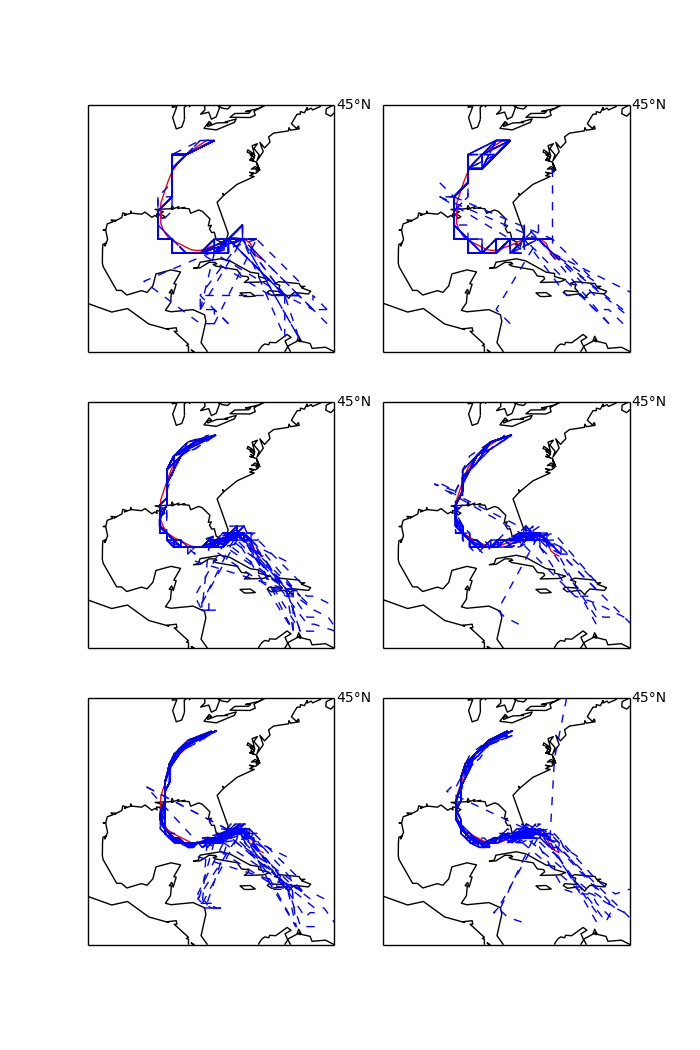
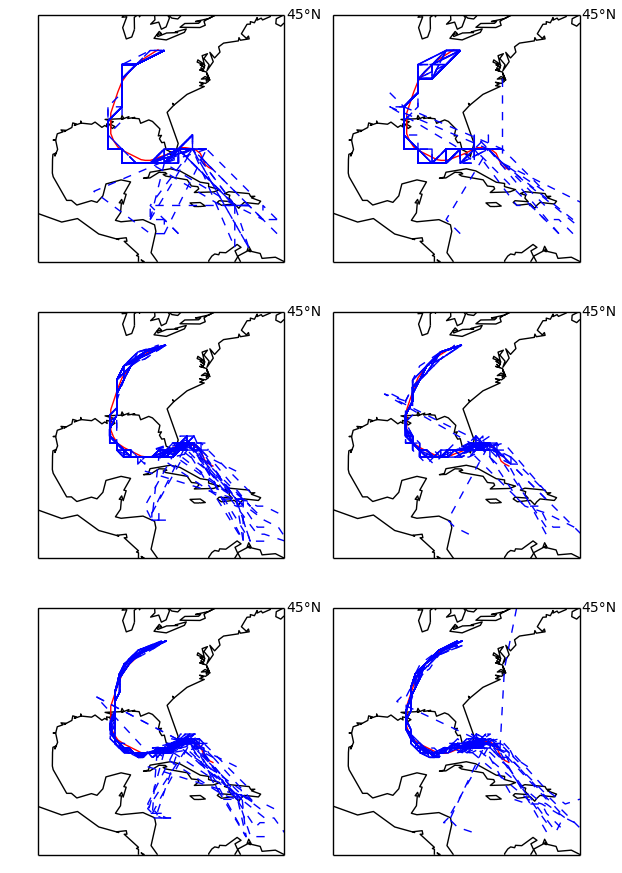
Add a proper section on SGD. Do some TODOCHECKs.

Changed region(s): [[0.0611, 0.0, 1.0, 0.9897]]

diff --git a/dissertation.tex b/dissertation.tex
@@ -11,7 +11,7 @@
 
 % Reduces margins substantially.
 \usepackage{geometry}
-\newgeometry{margin=3.0cm}
+\newgeometry{margin=2.5cm}
 
 % Allows headers and footers.
 \usepackage{fancyhdr}
@@ -42,7 +42,7 @@
 % Abstract
 % Intro
 % Data Sources
-% Development of the Hurricane Detection Algorithm
+% Development of the Hurricane Detection Procedure
 % Conclusion
 % Appendices
 % References
@@ -53,14 +53,14 @@
 % TODOs: 56
 
 % TODO: 5
-% TODOCITE: 2
+% TODOCITE: 1
 % TODOWRITE: 9
 % TODOREF: 3
 % TODOFIGREF: 10
 % TODOFIG: 10
 % TODOTABLEREF: 1
 % TODOTABLE: 1
-% TODOCHECK: 4
+% TODOCHECK: 1
 % TODOIMPROVE: 11
 
 \title{Objective Tracking and Classification of Hurricanes in the 20\ts{th} Century Reanalysis Dataset}
@@ -75,9 +75,9 @@
 \onehalfspacing
 \section*{Abstract}
 
-% Should be >= 400 words.
+% Should be <= 400 words.
 % Not included in word count.
-% 255 words so far.
+% ~262 words so far.
 A procedure for the detection of hurricanes in the 20\ts{th} Century Reanalysis Project dataset is
 developed. Tracks are derived from the dataset by tracking vorticity maxima over time. These derived
 tracks are matched against best tracks taken from the International Best Track Archive for Climate
@@ -99,10 +99,10 @@ metrics.
 
 The developed procedure is run over the course of the 20\ts{th} Century, and a comparison between
 the estimated number of hurricanes and the number as recorded in the IBTrACS dataset is performed.
-It is found that\dots
+It is found that TODOWRITE
 
 \begin{center}
-\textbf{Word count:} 6116 % 21/08/14 9:00
+\textbf{Word count:} 6800 % 22/08/14 14:00
 \end{center}
 
 \section*{Acknowledgements}
@@ -234,7 +234,7 @@ criteria, and then produce tracks based on combining cells that meet these in cr
 timesteps. These criteria are normally involve vorticity at the \SI{850}{hPa} pressure level,
 maximum wind speed, and temperature anomalies at different pressure levels. Additionally, the tracks
 produced have to be longer than a certain time duration, typically 1.5 to 2 days. Examples of
-studies that take this approach are \textcite{TODOCITE multiple}. 
+studies that take this approach are \textcite{bengtsson1995hurricane, walsh1997objective}. 
 
 The second approach of detecting hurricanes is to first track some feature from one timestep to the
 next (typically vorticity maxima), and then apply a set of criteria to each point in these tracks to
@@ -645,7 +645,7 @@ noticeable points from this figure are TODOWRITE.
 
 \begin{figure}[hbp]
     \centering
-    \includegraphics[width=\linewidth]{figures/katrina_six_tracking_configs}
+    \includegraphics[width=0.9\linewidth]{figures/katrina_six_tracking_configs}
     \caption{The six different tracking configurations tested for their fit with the best track of
         Hurricane Katrina.  Each of the individual figures shows all of the tracks across the
         different ensemble members that were matched with Hurricane Katrina. Katrina started as a
@@ -732,6 +732,7 @@ the IBTrACS dataset. Reasons as to why this might be so are examined further in 
 % TODOFIG: plot showing poor correlation between Katrina derived and best.
 
 \section{Classification}
+\label{sec:classification}
 
 % Description of the goal of classification and how it applies in this setting. Set out terminology
 % that I am going to use.
@@ -830,11 +831,11 @@ Figures \ref{TODOFIGREF} and \ref{TODOFIGREF}.
 When any of the classifiers is run on a dataset, it will produce a prediction of which of the
 members of that dataset are hurricanes, $H_{predicted}$. The PPV value derived for that particular classifier will
 allow an estimate of the number of TPs for that prediction. Likewise, from the estimated number of
-TPs, the sensitivity will allow a means of estimating the number of actual hurricanes, $H_{est. actual}$,
+TPs, the sensitivity will allow a means of estimating the number of actual hurricanes, $H_{estimated}$,
 in the dataset. The equation for this is:
 
 \begin{equation}
-    H_{est. actual} = \frac{PPV \times H_{predicted}}{sensitivity}
+    H_{estimated} = \frac{PPV \times H_{predicted}}{sensitivity}
     \label{eqn:n_actual_hurricane}
 \end{equation}
 
@@ -890,19 +891,35 @@ These algorithms were not implemented from scratch; instead the implementations 
 library scikit-learn were used \parencite{scikitLearn2011}.
 
 \subsubsection{Stochastic Gradient Descent Classifiers}
-% TODO: Need to explain what samples are higher up.
-% How this works.
+% How this works. Its relation to SVM.
 Stochastic Gradient Descent (SGD) classifiers are an efficient class of classifiers that can scale
 to 2 million samples, and are thus suitable for the problem in this project
 \parencite{singer07pegasos, bottou2008tradeoffs}. This makes them more suitable than e.g. a Support
-Vector Machine (SVM) classifier, to which they are closely related. SVM classifiers typically only
-scale to around \SI{10e5}{} samples. They work by TODOWRITE.
+Vector Machine (SVM) classifier \parencite{cortes1995support}, to which they are closely related.
+SVM classifiers typically only scale to around \SI{10e5}{} samples and therefore would not scale to
+the number of samples used in this study. To understand how an SGD classifier works, it is useful to
+consider how an SVM classifier works first.
+
+SVM classifiers work by calculating the hyperplane or set of hyperplanes which separate the two
+categories into two distinct groups with the clearest possible gap between them. In the case where
+there is no clean divide between the two categories, SVM classifiers will pick the hyperplanes which
+most cleanly divide them \parencite{cortes1995support}. By use of the kernel trick
+\parencite{aizerman1964theoretical}, SVM classifiers are not restricted to linear division between
+the categories, but can represent more complex surfaces than just hyperplanes. The locations of the
+hyperplanes which best separates the samples are calculated analytically.
+
+SGD classifiers use the same underlying idea of hyperplanes to split the samples into two distinct
+categories, however instead of calculating the location of the hyperplanes analytically, their
+position is found iteratively using an SGD algorithm for optimising the position of this hyperplane.
+This allows SGD classifiers to scale to far more samples than their SVM counterparts, whilst still
+solving the same underlying problem (albeit possibly less optimally).
 
 Again, the scikit-learn implementation for this classifier was used \parencite{scikitLearn2011}.
-% TODOWRITE: Explain feature scaling.
-This particular classifier is sensitive to feature scaling, therefore the input features must be
-scaled before the classifier is trained with this dataset, and likewise any data to be classified
-must be scaled using this same scaling. Dataset scaling was provided by the scikit-learn library.
+This particular classifier is sensitive to feature scaling, which is where a larger absolute range
+for e.g. pressure than vorticity leads to the classification being unduly biased towards this
+feature.  Therefore the input features must be scaled before the classifier is trained with this
+dataset, and likewise any data to be classified must be scaled using this same scaling as was used
+for the training dataset. Dataset scaling was provided by the scikit-learn library.
 
 \subsubsection{Combining Classifiers}
 With some of the classifiers, it was clear from examination of the output that they performed well
@@ -924,17 +941,17 @@ amount. This has the effect of increasing the PPV and FPR, but has no effect on 
 \subsubsection{Training Dataset}
 For the training dataset, all tracks from all ensemble members from the even years between 1990 and
 2008 were taken. Given that each track is comprised of multiple (at least six) CDPs, this leads to a
-large number of samples. On average, there were TODOCHECK samples per year, leading to a total
-sample size of TODOCHECK million samples. This training dataset was used as a way of picking optimum
+large number of samples. On average, there were \SI{211906}{} samples per year, leading to a total
+sample size of 2.12 million samples. This training dataset was used as a way of picking optimum
 values for the threshold classifier manually (as defined by a maximum combined value of sensitivity
 and PPV), and then using a brute force around the chosen values to verify that these values were
 indeed the local maximum. The training dataset was also used to train each of the LDA, QDA and SGD
-classifier.
+classifiers.
 
 \subsubsection{Validation Dataset} The validation dataset was similarly made up of all the tracks
 from all ensemble members from the odd years between 1991 and 2009. This ensured that the training
-and validation datasets were independent. It had a similar number of samples as the training
-dataset: TODOCHECK million samples.
+and validation datasets were independent, yet still spanned the almost the same time period. It had
+a similar number of samples as the training dataset: 2.14 million samples.
 
 \chapter{20\ts{th} Century Analysis Results}
 \label{chap:results_analysis}
